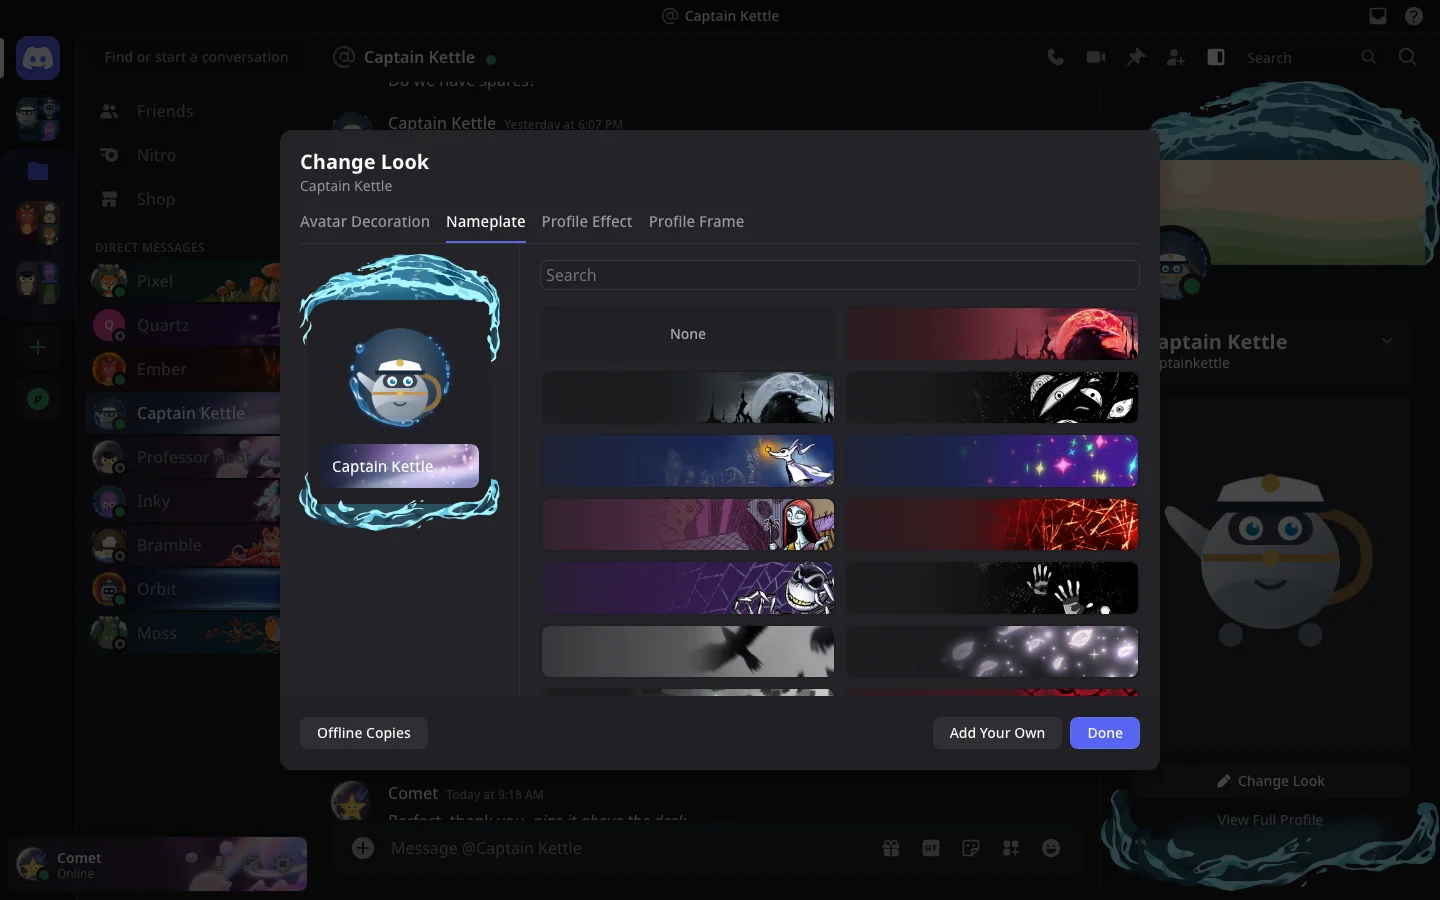
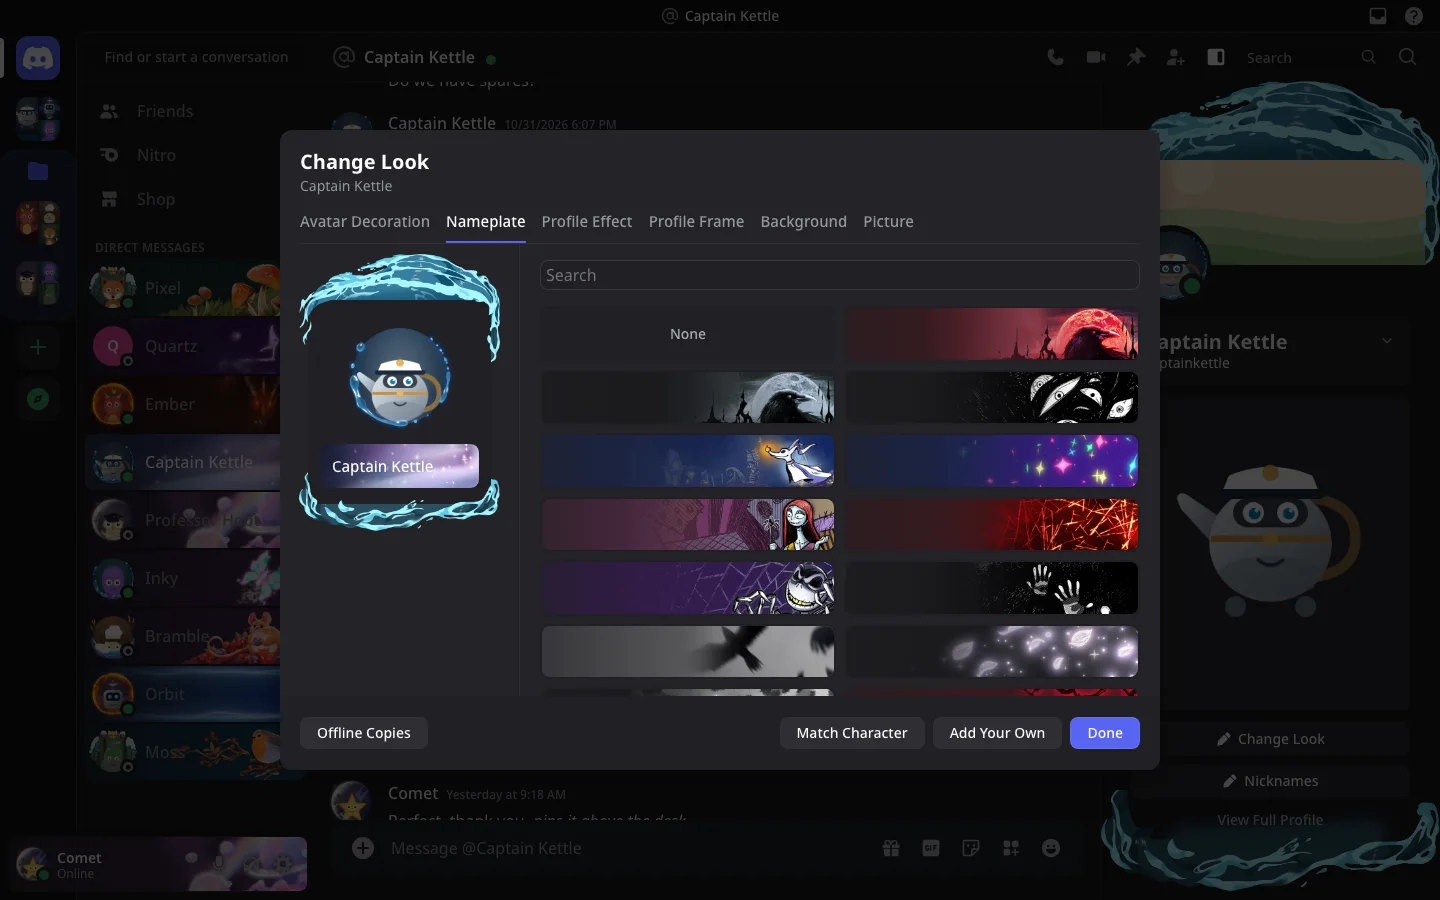
Update the README, UI_SCREENSHOTS.md and screenshots with the latest features

diff --git a/README.md b/README.md
@@ -18,7 +18,7 @@ Every feature, with pictures: **[UI_SCREENSHOTS.md](UI_SCREENSHOTS.md)**.
 
 ## When Discord refuses a file
 
-If Discord answers with an error, can't be reached or times out, the plugin reads the same file from this repo's private `art` branch, using the GitHub login saved for git on your machine. The login is never logged, stored or sent to a page. If there's no login, or it has no access to the repo, the request fails as it would without the backup. Each response's `X-Decor-Source` header says `cdn` or `repo`.
+If Discord answers with an error, can't be reached or times out, the plugin reads the same file from this repo's `art` branch. It uses the GitHub login saved for git on your machine; the login is never logged, stored or sent to a page. With no login, or if the branch can't be read, the request fails as it would without the backup. Each response's `X-Decor-Source` header says `cdn` or `repo`.
 
 For a test, start SillyTavern with `DISCORD_DECOR_BLOCK_CDN=<text>` to treat addresses containing that text as refused.
 
@@ -34,6 +34,8 @@ For a test, start SillyTavern with `DISCORD_DECOR_BLOCK_CDN=<text>` to treat add
 3. Restart SillyTavern.
 
 ## What happens next
+
+The theme also works without this plugin, showing a banner with install help until you dismiss it, but it can then only save decorations (or everything, with SillyTavern's CORS proxy on).
 
 The theme downloads a starter set once: everything your characters and personas are using, plus the first 6 items of each kind. Choose anything else, or delete what you don't want, under Change Look > **Offline Copies**. If **Use only saved copies** is on, nothing downloads by itself.
 

diff --git a/UI_SCREENSHOTS.md b/UI_SCREENSHOTS.md
@@ -8,6 +8,8 @@ This plugin has no screen of its own. It powers Offline Copies and the profile a
 
 Keep the art on your own SillyTavern server: every kind, the ones in use, or item by item, with a size breakdown first. Use only saved copies stops loading from Discord.
 
+![plugin banner](.github/screenshots/plugin-banner.webp)
+
 ![offline copies](.github/screenshots/offline-copies.webp)
 
 ![offline in use ticked](.github/screenshots/offline-in-use-ticked.webp)
@@ -23,6 +25,16 @@ The avatar decoration sits around the picture, the nameplate behind the name in 
 ![profile effect](.github/screenshots/clip-profile-effect.webp)
 
 ![nav dm hover nameplate](.github/screenshots/nav-dm-hover-nameplate.webp)
+
+## Background and picture per chat
+
+Background and Picture in Change Look apply to the open chat only: your backgrounds, the character's gallery or your own files.
+
+![look background](.github/screenshots/look-background.webp)
+
+![look picture](.github/screenshots/look-picture.webp)
+
+![look chat background](.github/screenshots/look-chat-background.webp)
 
 ## Change Look
 
